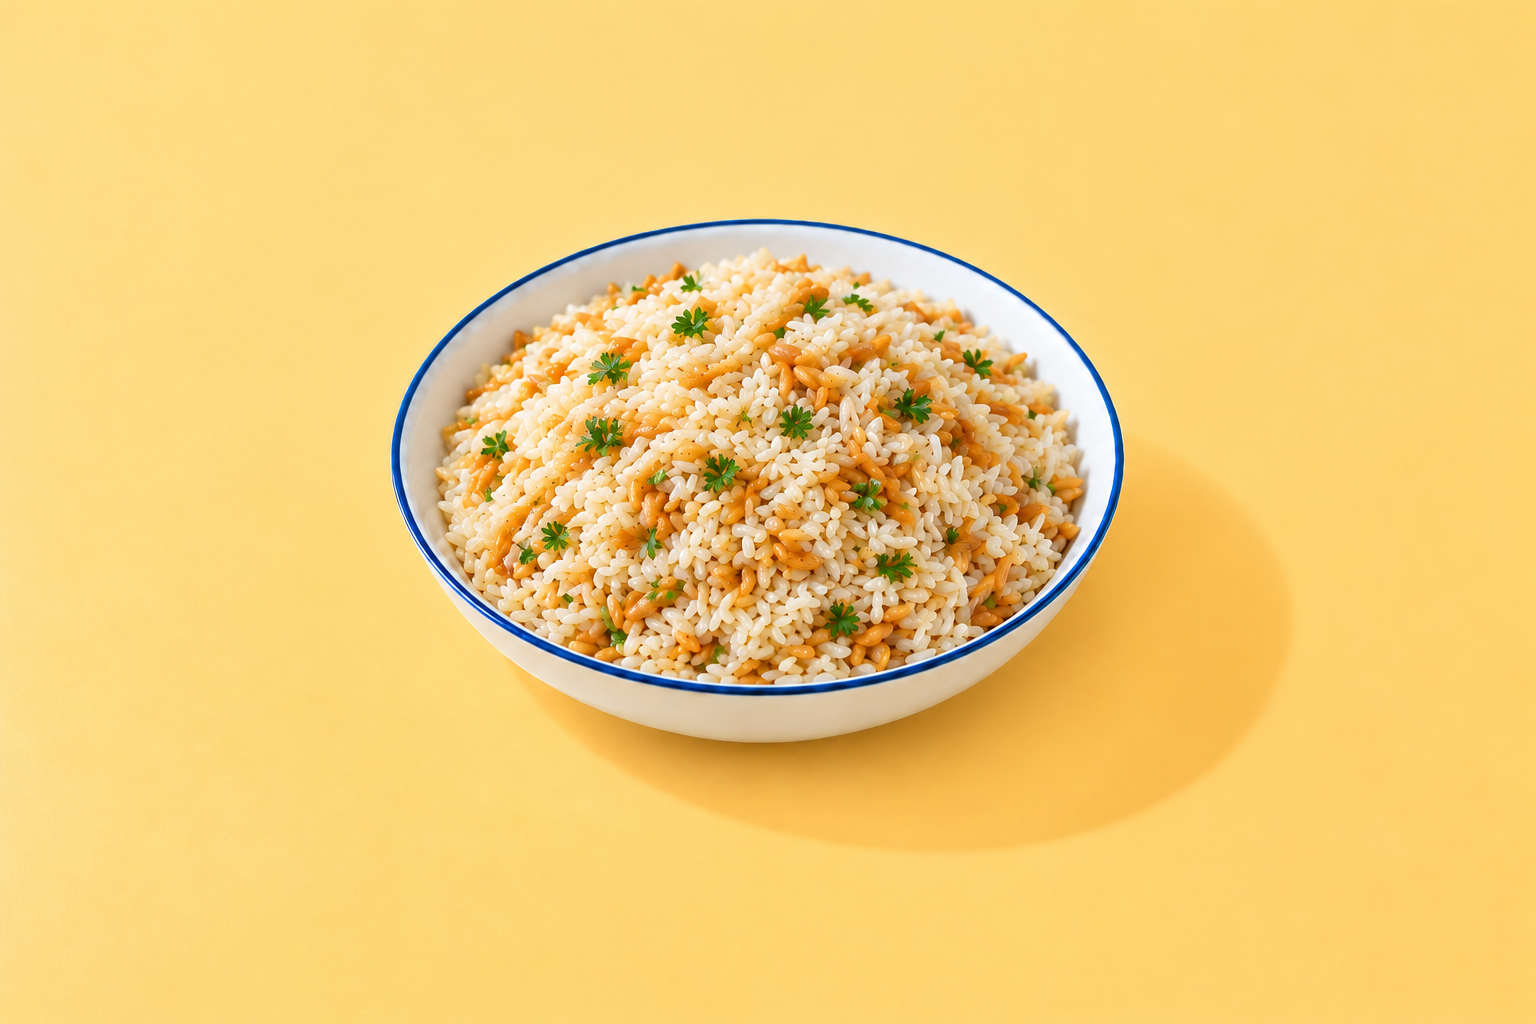
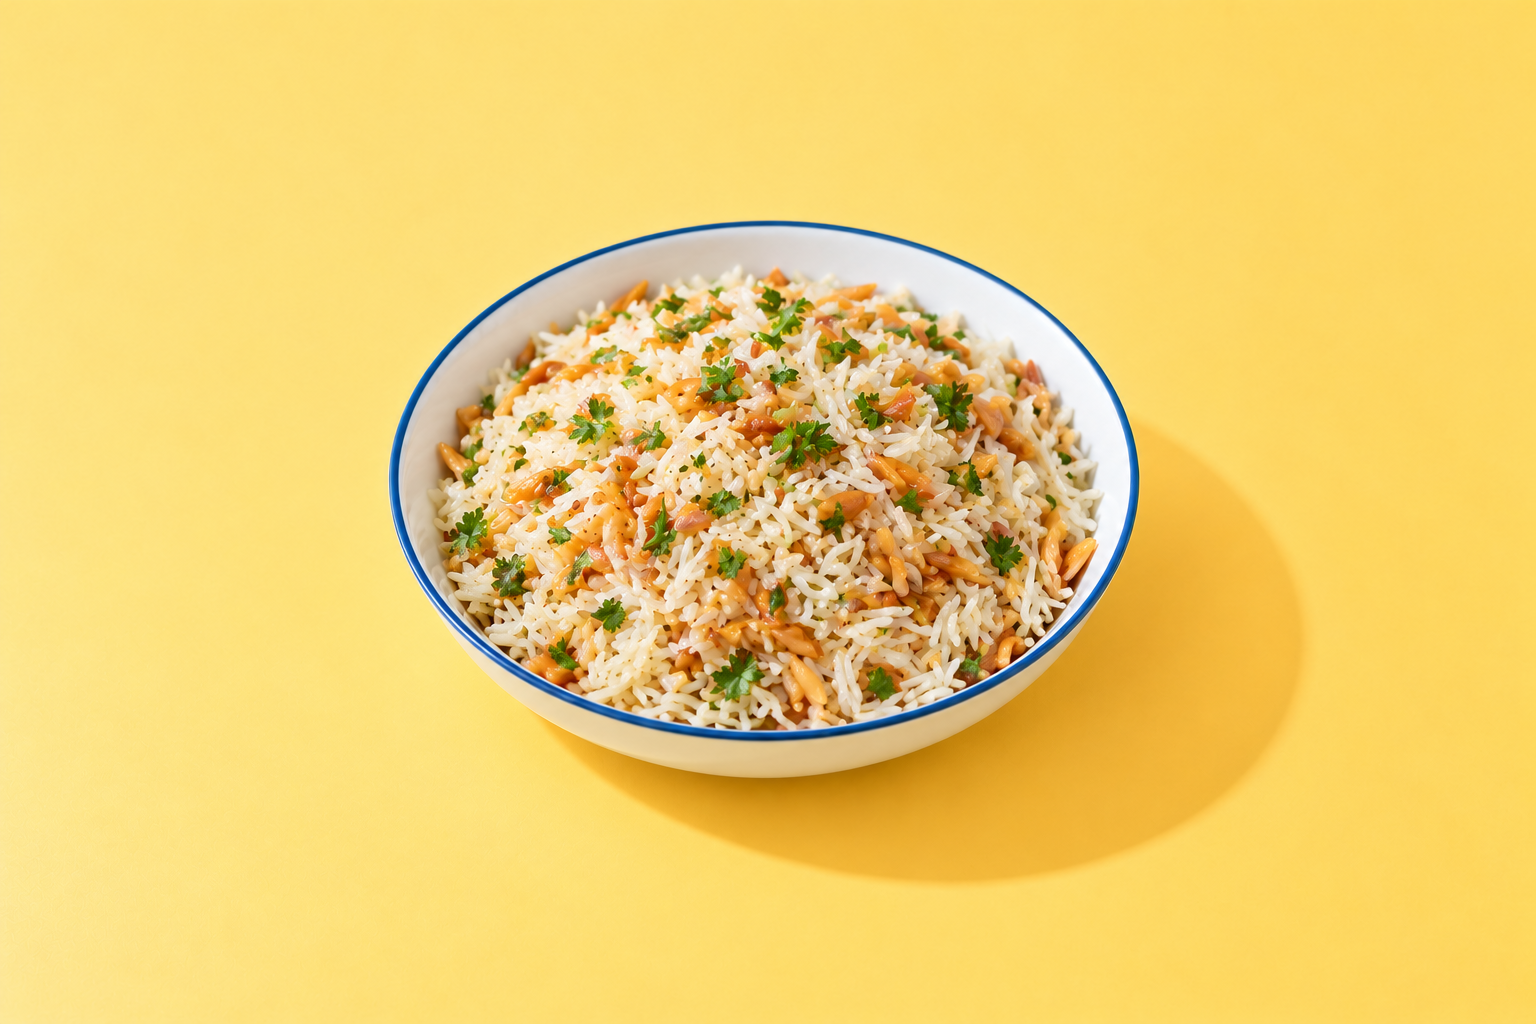
docs: replace batch 07 rice pilaf review candidate and retain redo evidence

Changed region(s): [[0.25, 0.1875, 0.875, 0.875], [0.6562, 0.2812, 0.6875, 0.3125], [0.625, 0.25, 0.6562, 0.2812]]

diff --git a/docs/image-tests/batch-07-redos/source.md b/docs/image-tests/batch-07-redos/source.md
@@ -1,0 +1,16 @@
+# Mise image prompts, batch 7 redo (1 recipe)
+
+Paste the block below to the image AI in one go.
+
+```text
+Mise batch 7 redo: 1 image
+
+Attach the style reference margarita-01-cookbook.png (branch images/mise-style-tests-2026-10-31). Make one image, named exactly as shown, replacing the batch 7 version. Its prompt is the shared style below plus its own lines. Put the image on a new branch, images/mise-batch-07-redos-YYYY-MM-DD, and don't merge, deploy or map it into recipes. The batch 7 version's rice came out short and plump. Check before you finish that the rice grains are clearly long and slender, like basmati, and that the orzo reads as separate golden brown pieces.
+
+Shared style, for every image:
+Bright, true-to-life cookbook photograph. Camera at about 40 degrees, 50mm lens, the whole dish in sharp focus. Soft, even daylight from the upper left, with one short soft shadow to the lower right. Background: a smooth, matte, seamless surface and wall in the backdrop color given for the image, one flat color edge to edge, evenly lit, with no vignette, no gradient, no darker corners and no horizon line. No props: only the dish on the backdrop. Keep any accent color to slate blue (#486B7B) or apricot (#F59443), used on one small thing only. Framing: the dish sits dead centre, left to right and top to bottom, and is about half the frame width, so a tall, narrow crop of the middle half still shows all of it. A tall glass uses height instead, about three quarters of the frame height. Landscape 3:2, 1536 x 1024. Style reference: match the attached reference image for light, white balance, camera height, scale and how flat the backdrop is; change only the dish and the backdrop color, and leave out its props. Fresh, lively and appetizing, natural color, bright and airy. Avoid: steam, smoke or vapour of any kind, text, logos, hands, people, dark or moody light, wooden tables, marble, patterned surfaces, props, cutlery, napkins, garnishes not listed for the dish, cartoon or illustration style, plastic-looking food, exaggerated saturation.
+
+1. homemade-rice-pilaf.png
+Dish: Rice and Orzo Pilaf. The dish: a fluffy mound of long-grain basmati rice mixed with a smaller amount of toasted orzo, flecked with parsley. The rice grains are long, slender and needle-like, each grain about four times as long as it is wide, cooked dry and separate so single grains are easy to see; not short, round, plump or sticky like sushi, arborio or medium-grain rice. The orzo pieces are fewer, a little larger than the rice and clearly toasted golden brown, so they stand apart from the white rice. Show the long, slender, separate white rice grains with scattered golden brown orzo. Texture: light, dry, fluffy, every grain separate. Colors: white and pale gold rice, toasted golden orzo, green parsley. Serving dish: a shallow white bowl with a thin slate blue rim. Garnish, and nothing else on the food: a little chopped parsley. Setting: an everyday side dish. Backdrop: butter yellow (#F9D27E). Moment: just fluffed. Keep the whole bowl, rim included, inside the middle of the frame, about 45 percent of the frame width.
+```
+

diff --git a/docs/image-tests/batch-07-redos/README.md b/docs/image-tests/batch-07-redos/README.md
@@ -1,0 +1,15 @@
+# Batch 07 rice-pilaf redo
+
+One review PNG: `images/homemade-rice-pilaf.png`, 1536 × 1024. This replaces the batch 07 candidate only on a separate review branch; no merge, deployment or recipe mapping.
+
+## QA
+
+The first new attempt still had short/plump rice and was rejected. The selected second attempt shows longer, slender, pointed white grains with distinct larger golden-brown toasted orzo. Full frame, actual central-half crop and unscaled grain detail were reviewed. Grain shapes vary with perspective; this is not a claim that every grain was measured at exactly 4:1.
+
+Complete bowl rim fits x389–1138, approximately 48.8% frame width, slightly wider than the 45% target but within the requested central-half crop. The lower-right cast shadow is longer than ideal. No steam, props or cutlery observed. Original margarita reference attached to both calls; the old short-grain pilaf was not used as a reference. Final PNG is unchanged generated bytes.
+
+## Provenance
+
+[Source redo prompt](https://github.com/jsilton/mise/blob/fbb3932ccb841da76ecca869cdbe9dca7ab5e49c/docs/image-prompts/batch-07-redo.md), blob `08871a39b88a57ac81bf1268104b16b653553ea9`. Two built-in calls, one rejected attempt. Source preparation and generation/QA ran approximately 12:47–12:54 UTC on 2026-11-02, including tool wait; no intentional pause. Root independently reviewed the proof and grain detail at 12:54 UTC and released this review candidate for branch saving, with the scale/shadow notes retained. Prior batch 07 assets/history remain untouched.
+
+Exact prompts and generation provenance are included. `review/` contains full/crop proof, actual crop and grain detail. This is review-branch work, not user acceptance or application to the site.

diff --git a/docs/image-tests/batch-07/README.md b/docs/image-tests/batch-07/README.md
@@ -19,3 +19,7 @@ Original [margarita reference](https://github.com/jsilton/mise/blob/images/mise-
 90 calls for 49 finals (41 remakes), in three concurrent groups of 31, 26 and 33 calls. Generation and coordinator review ran 01:46–02:20 UTC on 2026-11-02, approximately 34 wall minutes including tool waits, without an intentional pause. Packaging, Library saving and remote Git verification are separate stages, not implementation or publication.
 
 Exact attempted prompts are in `prompts/`; source/reference evidence in `source-provenance.json` and `generation-provenance.json`; final hashes and QA in `qa-manifest.json`. Six sheets in `review/` show full frames and central-half crops for entries 1–17, 18–33, 34–49. Root independently reviewed all six sheets at 02:21 UTC and released this package for review-branch saving with the rice-grain flag disclosed. This is not user acceptance.
+
+## Current rice-pilaf replacement review — 2026-11-02
+
+This redo branch replaces only homemade-rice-pilaf.png. See [redo review](../batch-07-redos/README.md) and [replacement hashes and QA](../batch-07-redos/qa-manifest.json). Longer slender grains and distinct toasted orzo were reviewed, with scale and shadow caveats retained. The other 48 images are unchanged. Original batch sheets and root QA manifest are historical evidence for the original pilaf, not current replacement hashes/results. This is review work, not user acceptance or site application.
